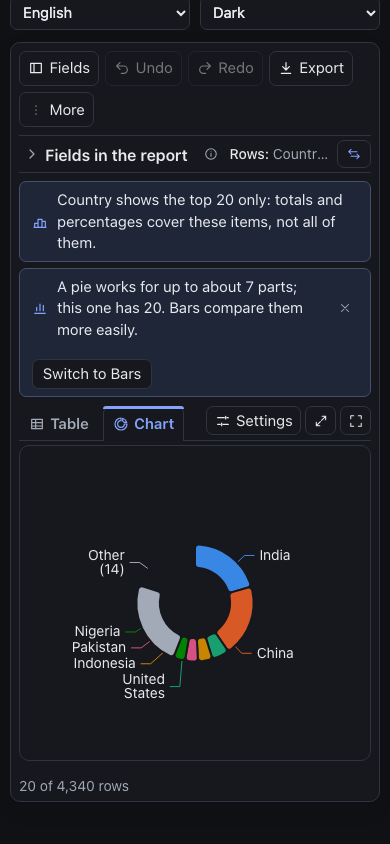
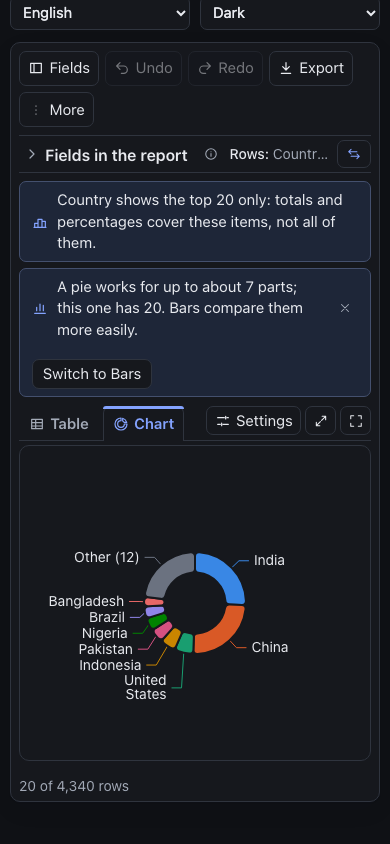
fix(charts): the slice Other after review
- A slice needs half a line of arc at the pie's edge, so fewer go into
  Other.
- Its tooltip has the share as the other slices do.
- --pk-chart-other is a mid grey in dark, so the slice does not outshine
  the data.
- The default word comes from DEFAULT_LABELS.
- Docs: tap on a phone, the fallback when nothing has room.

Changed region(s): [[0.1231, 0.6469, 0.7692, 0.8318]]

diff --git a/packages/pivotkit-core/src/chart-fit.js b/packages/pivotkit-core/src/chart-fit.js
@@ -6,6 +6,7 @@
  */
 
 import { DEFAULT_THEME } from "./defaults.js";
+import { DEFAULT_LABELS } from "./labels.js";
 import { ringLabelsFit } from "./chart-layout.js";
 import { labelLine, longestWidth, radiusPx, textWidth } from "./chart-measure.js";
 
@@ -427,7 +428,7 @@ export function pointLabels(series, { width, height, grid, fontSize, horizontal,
 const CATEGORY_LABEL_ROOM = 120;
 
 /** The arc (in lines of text) a slice needs at the pie's edge to keep its label outside, without a legend. */
-const OTHER_ARC = 0.75;
+const OTHER_ARC = 0.5;
 
 /**
  * A pie's or donut's smallest slices as one slice "Other (n)", last, where its labels outside have no
@@ -464,7 +465,8 @@ export function otherSlices(series, box, { fontSize, color, hidden = {} }) {
     }
     // the slices that may go, the smallest first
     const order = data.map((d, i) => ({ d, i })).filter(({ d }) => shownOf(d) && typeof d.value === "number").sort((a, b) => a.d.value - b.d.value || b.i - a.i);
-    const name = typeof series.otherName === "string" ? series.otherName : "Other ({count})";
+    const name = typeof series.otherName === "string" ? series.otherName : DEFAULT_LABELS.otherSlices;
+    // one fit per try: a chart draws at most 50 slices (MAX_CATEGORIES of the UI, the report's cap)
     for (let n = 2; n < order.length; n++) {
         const gone = new Set(order.slice(0, n).map((x) => x.i));
         const members = data.filter((_, i) => gone.has(i)).map((d) => ({ name: d.name, value: d.value }));

diff --git a/packages/pivotkit-react/src/chart-tooltip.js b/packages/pivotkit-react/src/chart-tooltip.js
@@ -265,7 +265,8 @@ export function tooltipContent(params, { valueFormatter = (v) => String(v ?? "")
     // slice it holds, the largest first, cut to maxLines as the series lines are
     const members = Array.isArray(params?.data?.members) ? [...params.data.members].sort((a, b) => b.value - a.value) : null;
     if (members) {
-        const all = [{ color: color(params), name: text(params.name), value: valueFormatter(params.value) }, ...members.map((m) => ({ color: null, name: text(m.name), value: valueFormatter(m.value) }))];
+        const head = { color: color(params), name: text(params.name), value: valueFormatter(params.value), ...(share && shareFormatter && hasValue(params.percent) && series[params.seriesIndex ?? 0]?.additive === true ? { share: shareFormatter(params.percent) } : {}) };
+        const all = [head, ...members.map((m) => ({ color: null, name: text(m.name), value: valueFormatter(m.value) }))];
         const cut = all.length > maxLines ? all.length - Math.max(1, maxLines - 1) : 0;
         return { title: text(params.seriesName), lines: cut ? all.slice(0, all.length - cut) : all, ...(cut ? { more: moreLabel.replace("{count}", String(cut)) } : {}) };
     }

diff --git a/packages/pivotkit-react/test/ui-logic.test.js b/packages/pivotkit-react/test/ui-logic.test.js
@@ -330,6 +330,8 @@ test("chart tooltips: a title and a line per series or slice, values in the core
             { color: null, name: "C", value: "1.0 u" }
         ]
     });
+    // with the share switched on, the slice's share as the other slices have it
+    assert.equal(tooltipContent({ ...other, percent: 30 }, { valueFormatter: fmt, share: true, shareFormatter: (p) => `${p}%`, series: [{ additive: true }] }).lines[0].share, "30%");
     assert.deepEqual(tooltipContent(other, { valueFormatter: fmt, maxLines: 3, moreLabel: "+{count} more" }), {
         title: "Population",
         lines: [

diff --git a/packages/pivotkit-report/src/tokens.js b/packages/pivotkit-report/src/tokens.js
@@ -60,7 +60,7 @@ export const DARK_TOKENS = Object.freeze({
     "--pk-chart-7": "#9085e9",
     "--pk-chart-8": "#e66767",
     "--pk-chart-reference": "var(--pk-muted)",
-    "--pk-chart-other": "var(--pk-muted)"
+    "--pk-chart-other": "#6b7280"
 });
 
 /** The font weights, the same in both themes: pivotkit-react's scale (test/tokens.test.js compares them). */

diff --git a/packages/pivotkit-react/src/styles.css b/packages/pivotkit-react/src/styles.css
@@ -215,7 +215,7 @@
     --pk-chart-8: #e66767;
     --pk-chart-reference: var(--pk-muted);
     /* the slice "Other (n)" that holds a pie's smallest slices when their labels have no room */
-    --pk-chart-other: var(--pk-muted);
+    --pk-chart-other: #6b7280;
 }
 
 @media (prefers-reduced-motion: reduce) {

diff --git a/docs/reference/theming.md b/docs/reference/theming.md
@@ -123,7 +123,7 @@ size through the element.
 | `--pk-chart-1` ... `--pk-chart-8` | Chart series colours, in this order; read by ECharts | `#2a78d6`<br>`#eb6834`<br>`#1baf7a`<br>`#eda100`<br>`#e87ba4`<br>`#008300`<br>`#6250d6`<br>`#e34948` | `#3987e5`<br>`#d95926`<br>`#199e70`<br>`#c98500`<br>`#d55181`<br>`#008300`<br>`#9085e9`<br>`#e66767` |
 | `--pk-chart-axis` | The chart's axis line, apart from the table's lines. Not set, it is `--pk-border` | not set | not set |
 | `--pk-chart-reference` | The chart's reference lines of no series: a target, the lines of a stack's total. A series' own lines take its colour | `var(--pk-muted)` | `var(--pk-muted)` |
-| `--pk-chart-other` | The slice "Other (n)" that holds a pie's smallest slices when their labels have no room | `var(--pk-muted)` | `var(--pk-muted)` |
+| `--pk-chart-other` | The slice "Other (n)" that holds a pie's smallest slices when their labels have no room | `var(--pk-muted)` | `#6b7280` |
 | `--pk-heat-low`<br>`--pk-heat-high` | Heatmap scale, and a colour scale in the table whose view names no colours (through `--pk-scale-low` and `--pk-scale-high`) | `#eaf1fb`<br>`#2a78d6` | `#1d2735`<br>`#3987e5` |
 | `--pk-layer-z` | The z-index of the layer of menus, sheets and popups, only in a browser without the Popover API ([below](#popovers-above-the-page)) | `50` | as light |
 

diff --git a/docs/use/charts.md b/docs/use/charts.md
@@ -179,14 +179,15 @@ labels of a pie.
 ## Many slices without a legend { #many-slices }
 
 With the legend **Off**, the labels are the only names of the slices. When they have no room, the
-smallest slices go into one grey slice, such as "Other (13)".
+smallest slices go into one grey slice, such as "Other (14)".
 
 ![A donut of 20 countries on a phone: the six largest with their names, the rest as one grey slice "Other (14)"](../assets/screenshots/donut-other-light.png#only-light){ width="300" }
 ![A donut of 20 countries on a phone: the six largest with their names, the rest as one grey slice "Other (14)"](../assets/screenshots/donut-other-dark.png#only-dark){ width="300" }
 
 - The number says how many slices it holds. Its size is their sum.
-- Point at it to see each slice it holds with its value, the largest first.
+- Point at it, or tap it on a phone, to see each slice it holds with its value, the largest first.
 - Every other slice keeps its whole label.
+- When even two slices and the grey one have no room, the chart draws every slice with its label, even where two labels touch.
 - The rule follows the room. A phone shows fewer slices than a wide screen. The chart image, the
   HTML report and printing follow the same rule at their size.
 - The numbers stay the same: the table and the export list every slice.

diff --git a/docs/getting-started/upgrading.md b/docs/getting-started/upgrading.md
@@ -188,7 +188,7 @@ their labels have no room ([many slices](../use/charts.md#many-slices)).
 - The chart image, the HTML report, the SVG and printing follow the same rule at their size.
 - The chart of an HTML report or SVG takes the report's words. A German report writes "Andere (n)"
   and the German names of the reference lines.
-- The token `--pk-chart-other` colours the slice, `--pk-muted` by default.
+- The token `--pk-chart-other` colours the slice: `--pk-muted` in light, a mid grey in dark.
 
 ### High and low points in the chart { #chart-points }
 
